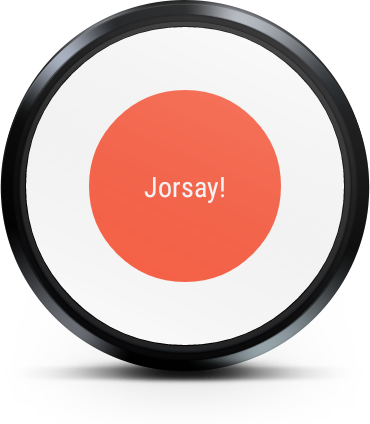
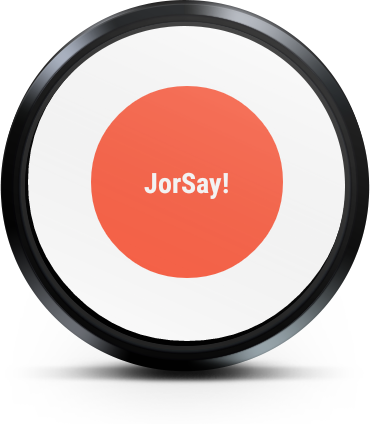
Wear UI - round button in app colors - more changes

diff --git a/JorSay/wear/src/main/java/com/mocha17/slayer/WearMainActivity.java b/JorSay/wear/src/main/java/com/mocha17/slayer/WearMainActivity.java
@@ -4,7 +4,6 @@ import android.app.Activity;
 import android.os.Bundle;
 import android.support.wearable.view.WatchViewStub;
 import android.view.View;
-import android.widget.Button;
 import android.widget.FrameLayout;
 
 import com.mocha17.slayer.communication.MobileDataSender;
